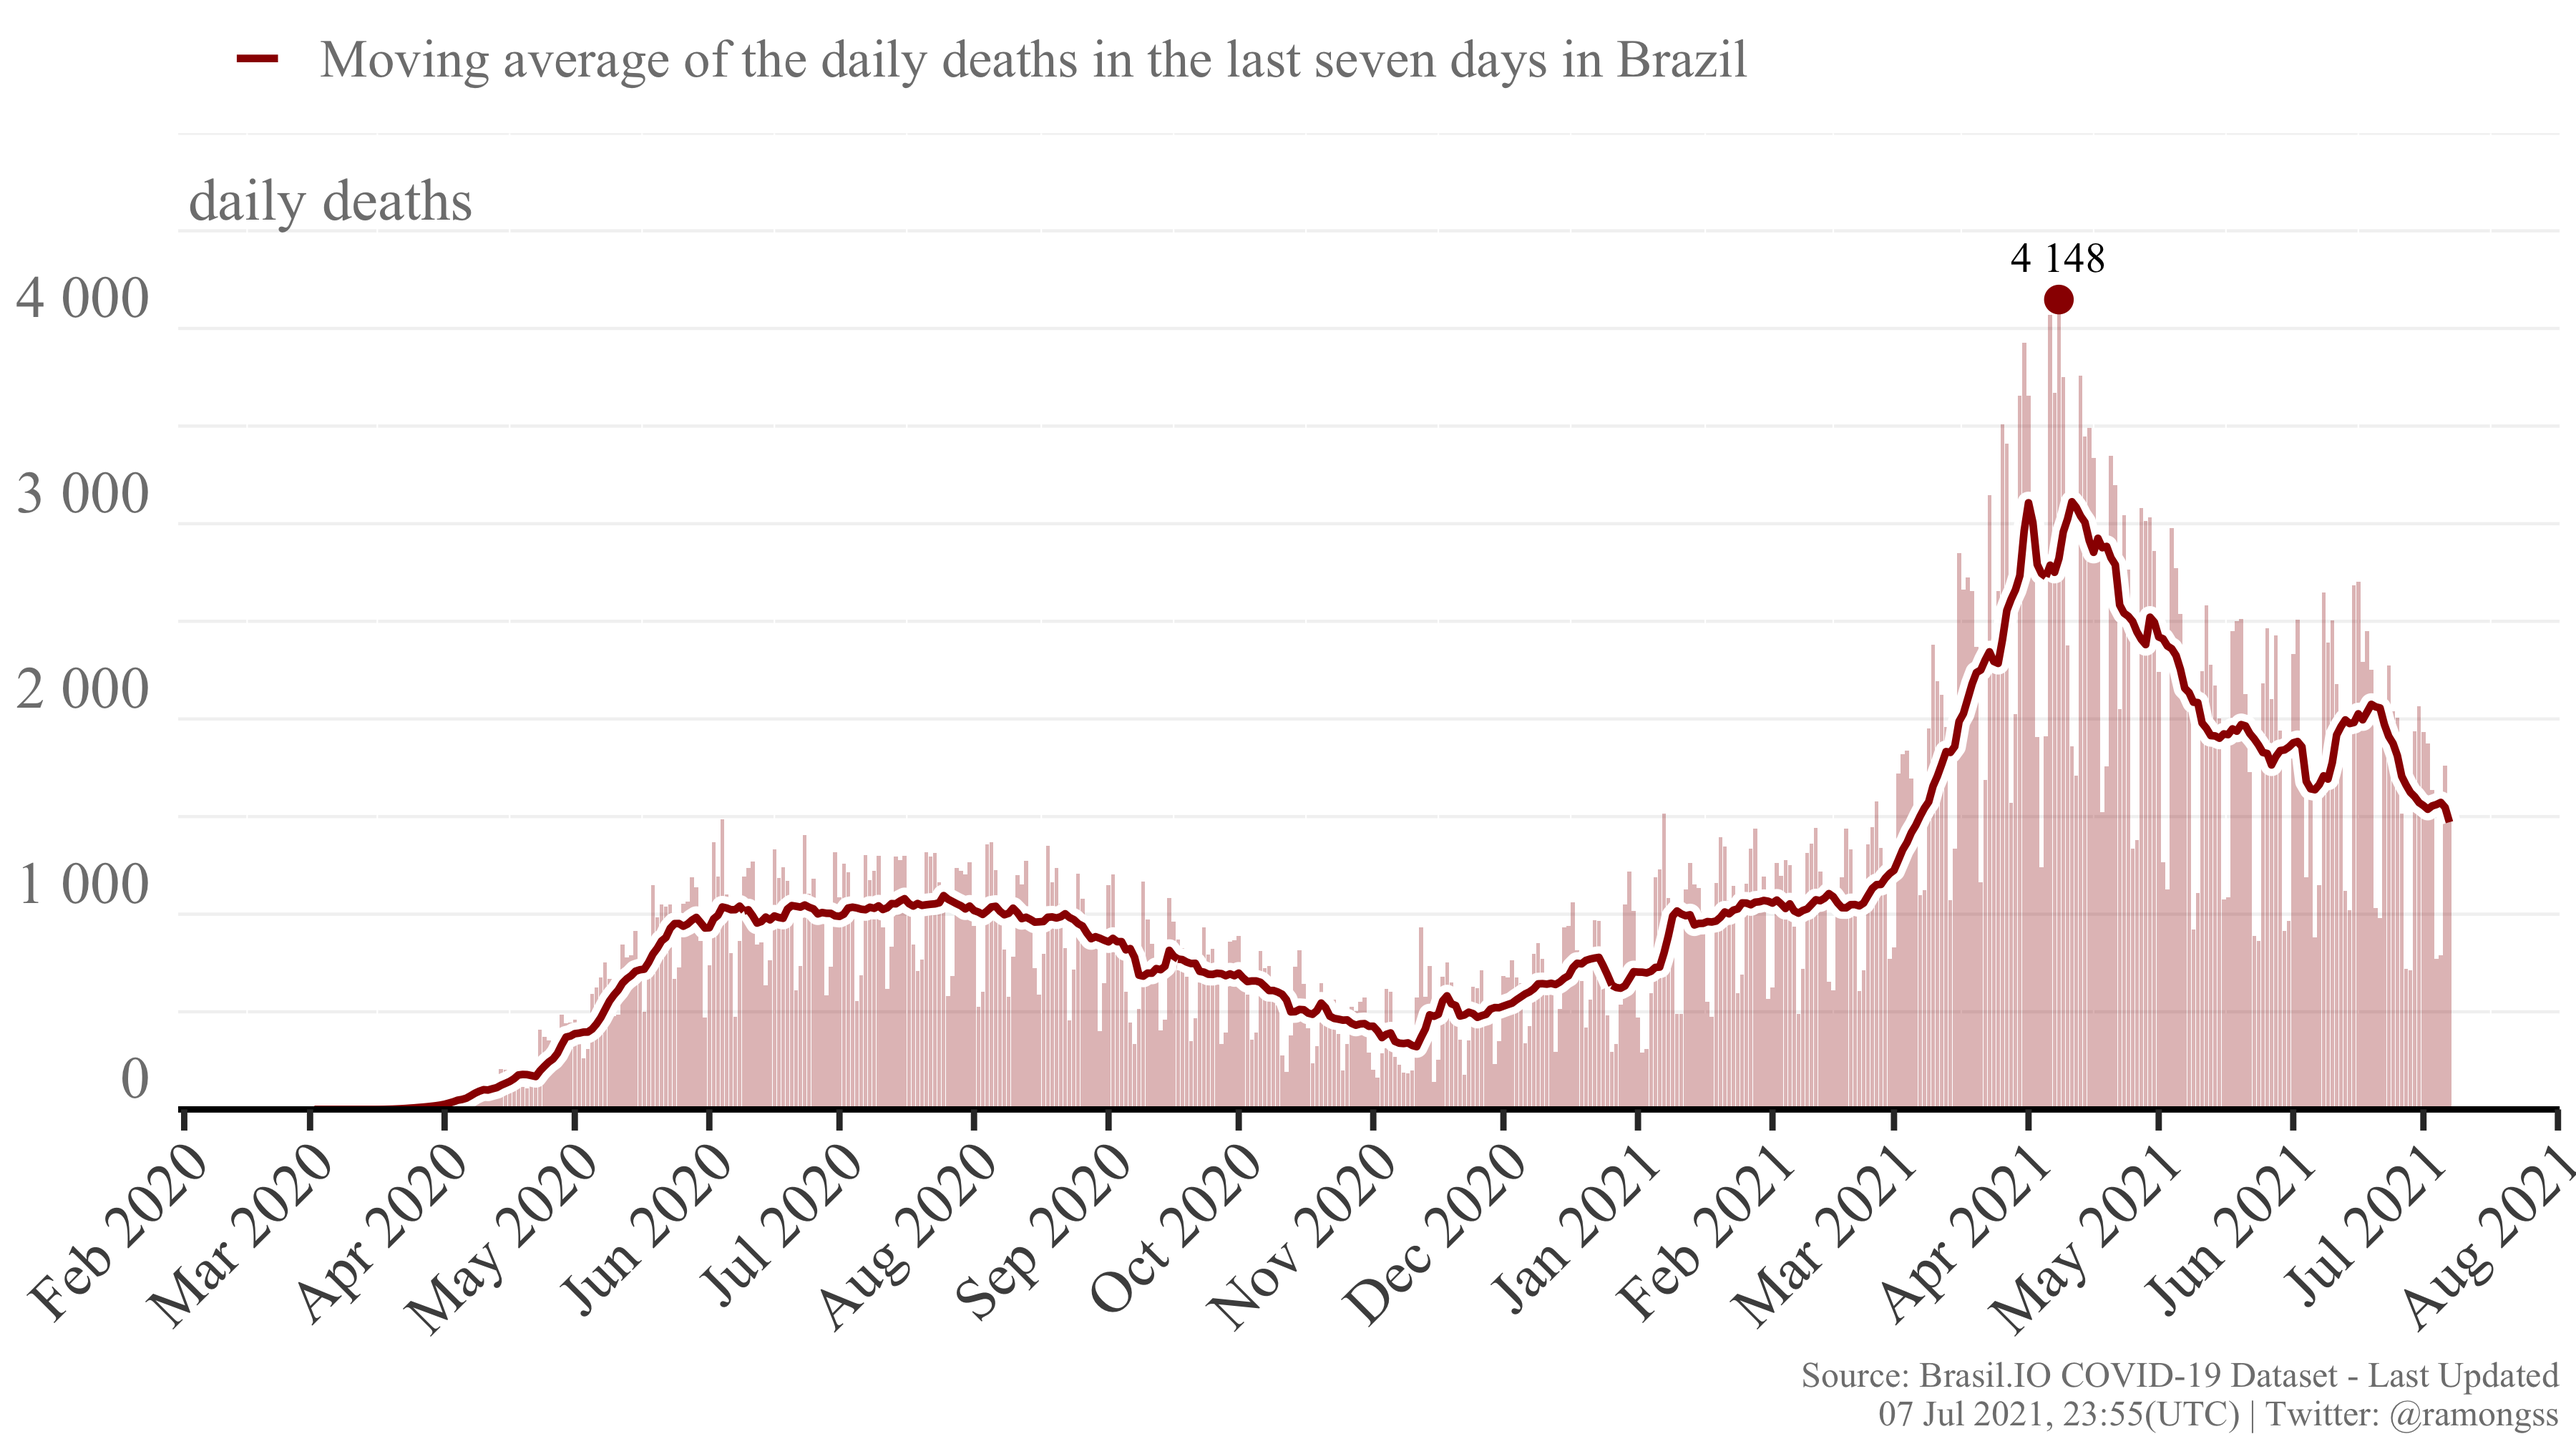
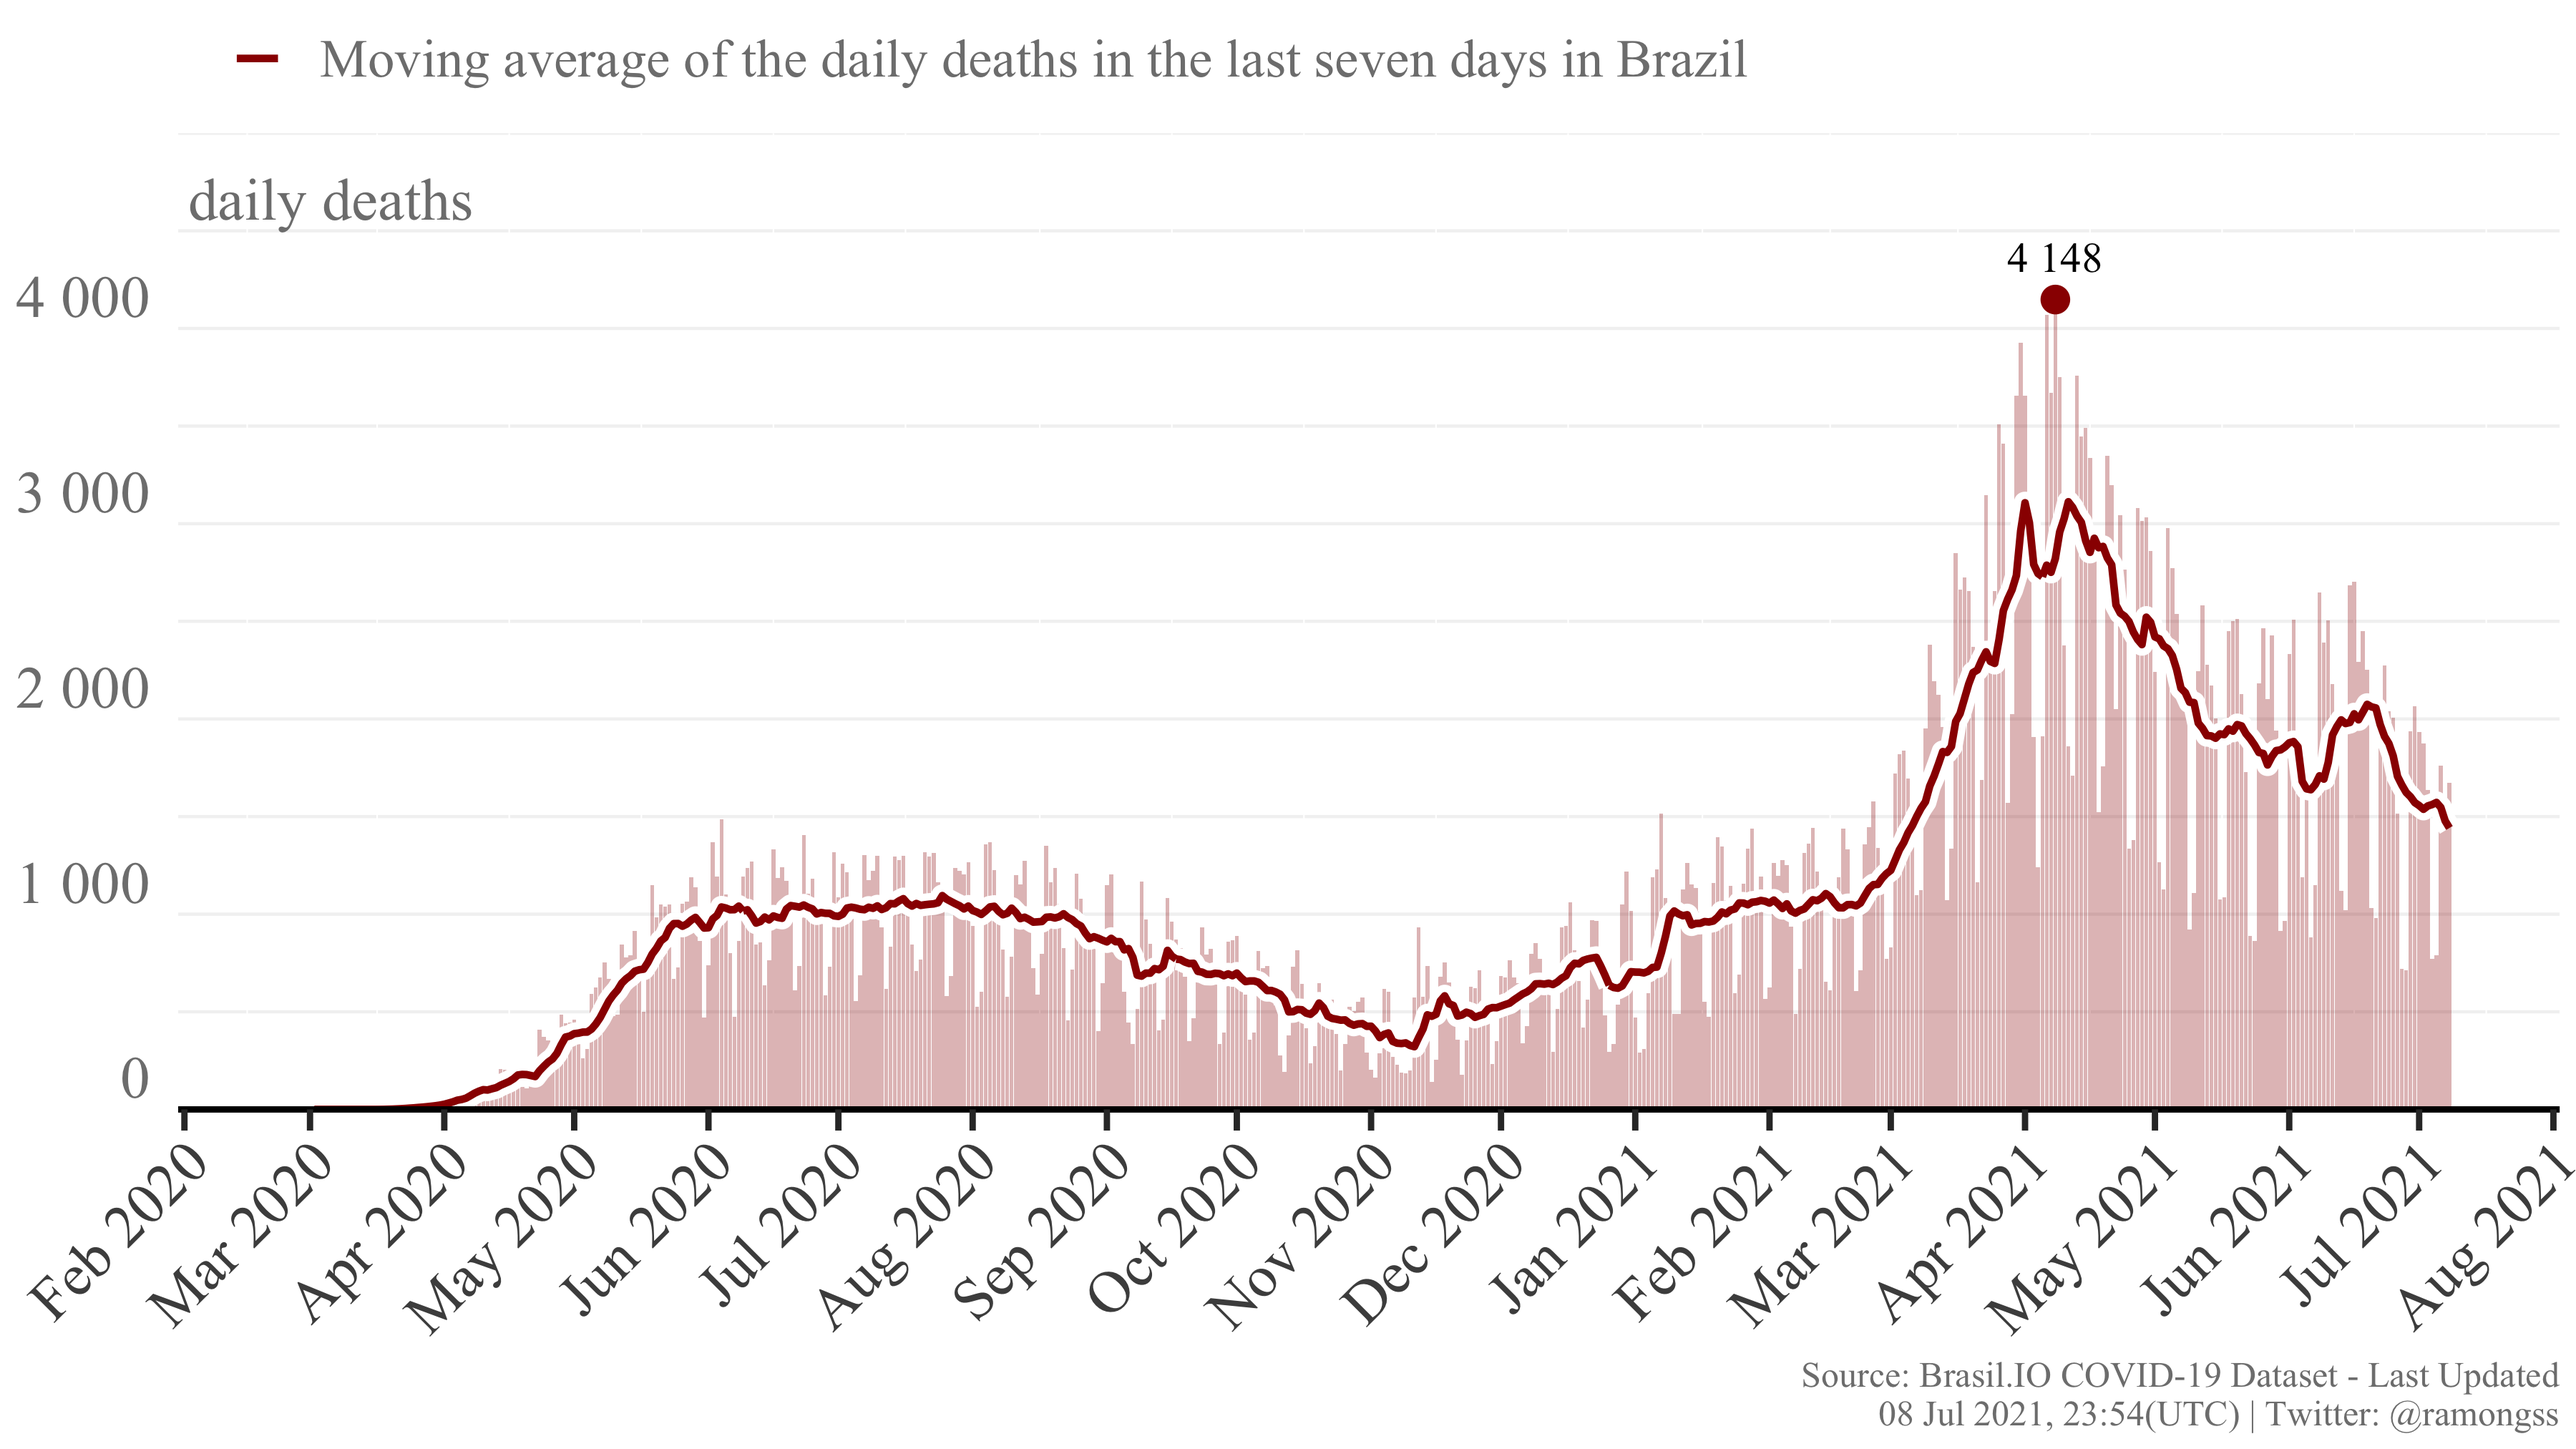
Re-build README.Rmd

diff --git a/README.md b/README.md
@@ -27,8 +27,8 @@ download_brasilio_table <- function(dataset = "covid19", table_name){
 
 ## COVID-19 Confirmed cases
 
-Currently, Brazil has a total of **18,915,601** confirmed cases at **07
-Jul, 2021**, with **51,790** new confirmed cases. The daily maximum
+Currently, Brazil has a total of **18,969,499** confirmed cases at **08
+Jul, 2021**, with **51,522** new confirmed cases. The daily maximum
 incidence was **124,248** confirmed cases at **22 Jun, 2021**. Here
 follows the Figure showing the confirmed case incidence as the bars, and
 the line as the moving average of the last 7 days.
@@ -37,8 +37,8 @@ the line as the moving average of the last 7 days.
 
 ## COVID-19 Deaths
 
-Currently, Brazil has a total of **528,785** deaths at **07 Jul, 2021**,
-with **1,534** new deaths. The daily maximum deaths incidence was
+Currently, Brazil has a total of **530,510** deaths at **08 Jul, 2021**,
+with **1,674** new deaths. The daily maximum deaths incidence was
 **4,148** deaths at **08 Apr, 2021**. Here follows the Figure showing
 the deaths incidence as the bars, and the line as the moving average of
 the last 7 days.
@@ -49,4 +49,4 @@ the last 7 days.
 
 This page is daily updated automatically using Github Actions.
 
-*Last update: 07 Jul 2021, 23:55 (UTC).*
+*Last update: 08 Jul 2021, 23:54 (UTC).*
